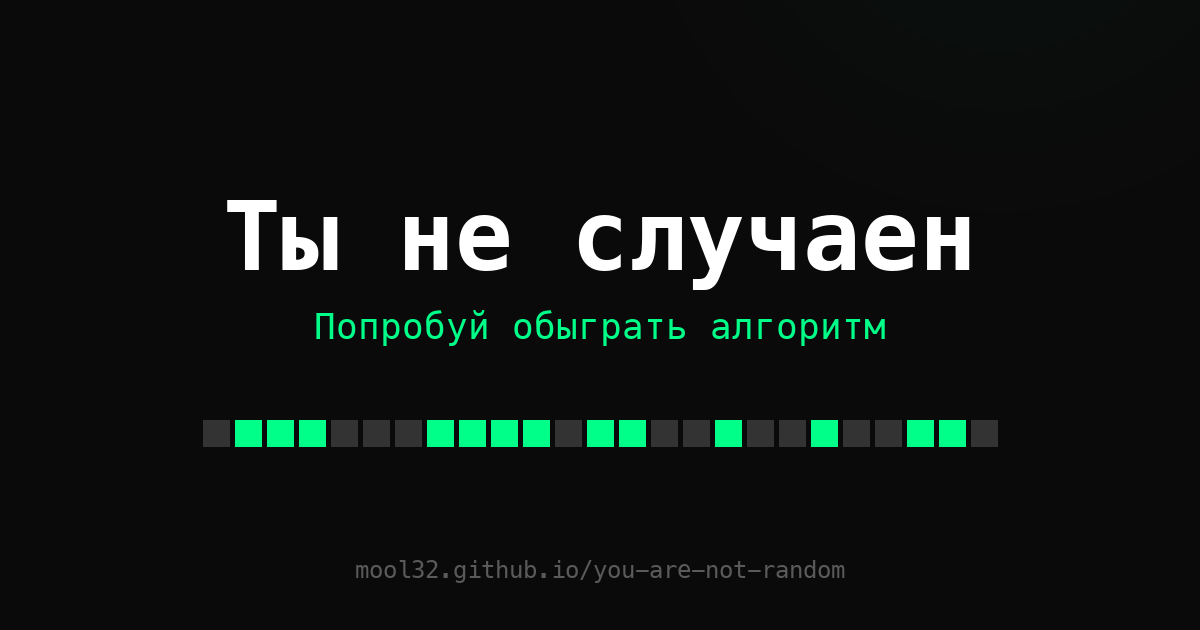
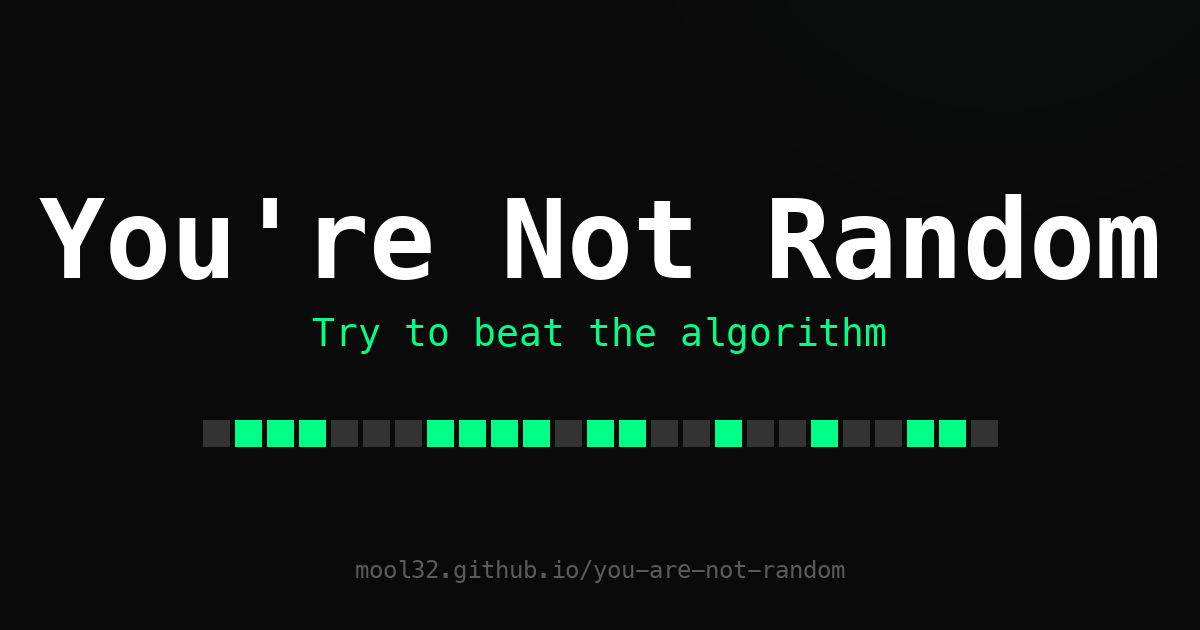
Switch default language to English
- <html lang> ru → en
- Page <title>, meta description, all OG/Twitter Card meta tags
  switched to English (with og:locale:alternate ru_RU kept for crawlers)
- currentLang initial value 'ru' → 'en'; the in-game language switcher
  still works as before (toggle button stays on welcome screen)
- og.png regenerated with "You're Not Random" / "Try to beat the algorithm"
- PWA manifest name, short_name, description, lang switched to English

Changed region(s): [[0.0308, 0.3016, 0.9867, 0.4524], [0.2467, 0.4825, 0.74, 0.573]]

diff --git a/index.html b/index.html
@@ -1,29 +1,29 @@
 <!DOCTYPE html>
-<html lang="ru">
+<html lang="en">
 <head>
 <meta charset="UTF-8">
 <meta name="viewport" content="width=device-width, initial-scale=1, maximum-scale=1, user-scalable=no, interactive-widget=resizes-content">
 <meta name="theme-color" content="#0a0a0a">
-<title>Ты не случаен</title>
+<title>You're Not Random</title>
 
 <!-- SEO -->
-<meta name="description" content="Попробуй обыграть алгоритм, который предсказывает каждое твоё нажатие. Игра в случайность.">
+<meta name="description" content="Try to beat the algorithm that predicts every one of your taps. A game about randomness.">
 
 <!-- Open Graph (Facebook, Telegram, LinkedIn, etc.) -->
 <meta property="og:type" content="website">
 <meta property="og:url" content="https://mool32.github.io/you-are-not-random/">
-<meta property="og:title" content="Ты не случаен">
-<meta property="og:description" content="Попробуй обыграть алгоритм, который предсказывает каждое твоё нажатие.">
+<meta property="og:title" content="You're Not Random">
+<meta property="og:description" content="Try to beat the algorithm that predicts every one of your taps.">
 <meta property="og:image" content="https://mool32.github.io/you-are-not-random/og.png">
 <meta property="og:image:width" content="1200">
 <meta property="og:image:height" content="630">
-<meta property="og:locale" content="ru_RU">
-<meta property="og:locale:alternate" content="en_US">
+<meta property="og:locale" content="en_US">
+<meta property="og:locale:alternate" content="ru_RU">
 
 <!-- Twitter Card -->
 <meta name="twitter:card" content="summary_large_image">
-<meta name="twitter:title" content="Ты не случаен">
-<meta name="twitter:description" content="Попробуй обыграть алгоритм, который предсказывает каждое твоё нажатие.">
+<meta name="twitter:title" content="You're Not Random">
+<meta name="twitter:description" content="Try to beat the algorithm that predicts every one of your taps.">
 <meta name="twitter:image" content="https://mool32.github.io/you-are-not-random/og.png">
 
 <!-- Favicon & PWA -->
@@ -746,7 +746,7 @@ const LANG = {
   },
 };
 
-let currentLang = 'ru';
+let currentLang = 'en';
 function T_get() { return LANG[currentLang]; }
 Object.defineProperty(window, 'T', { get: T_get });
 